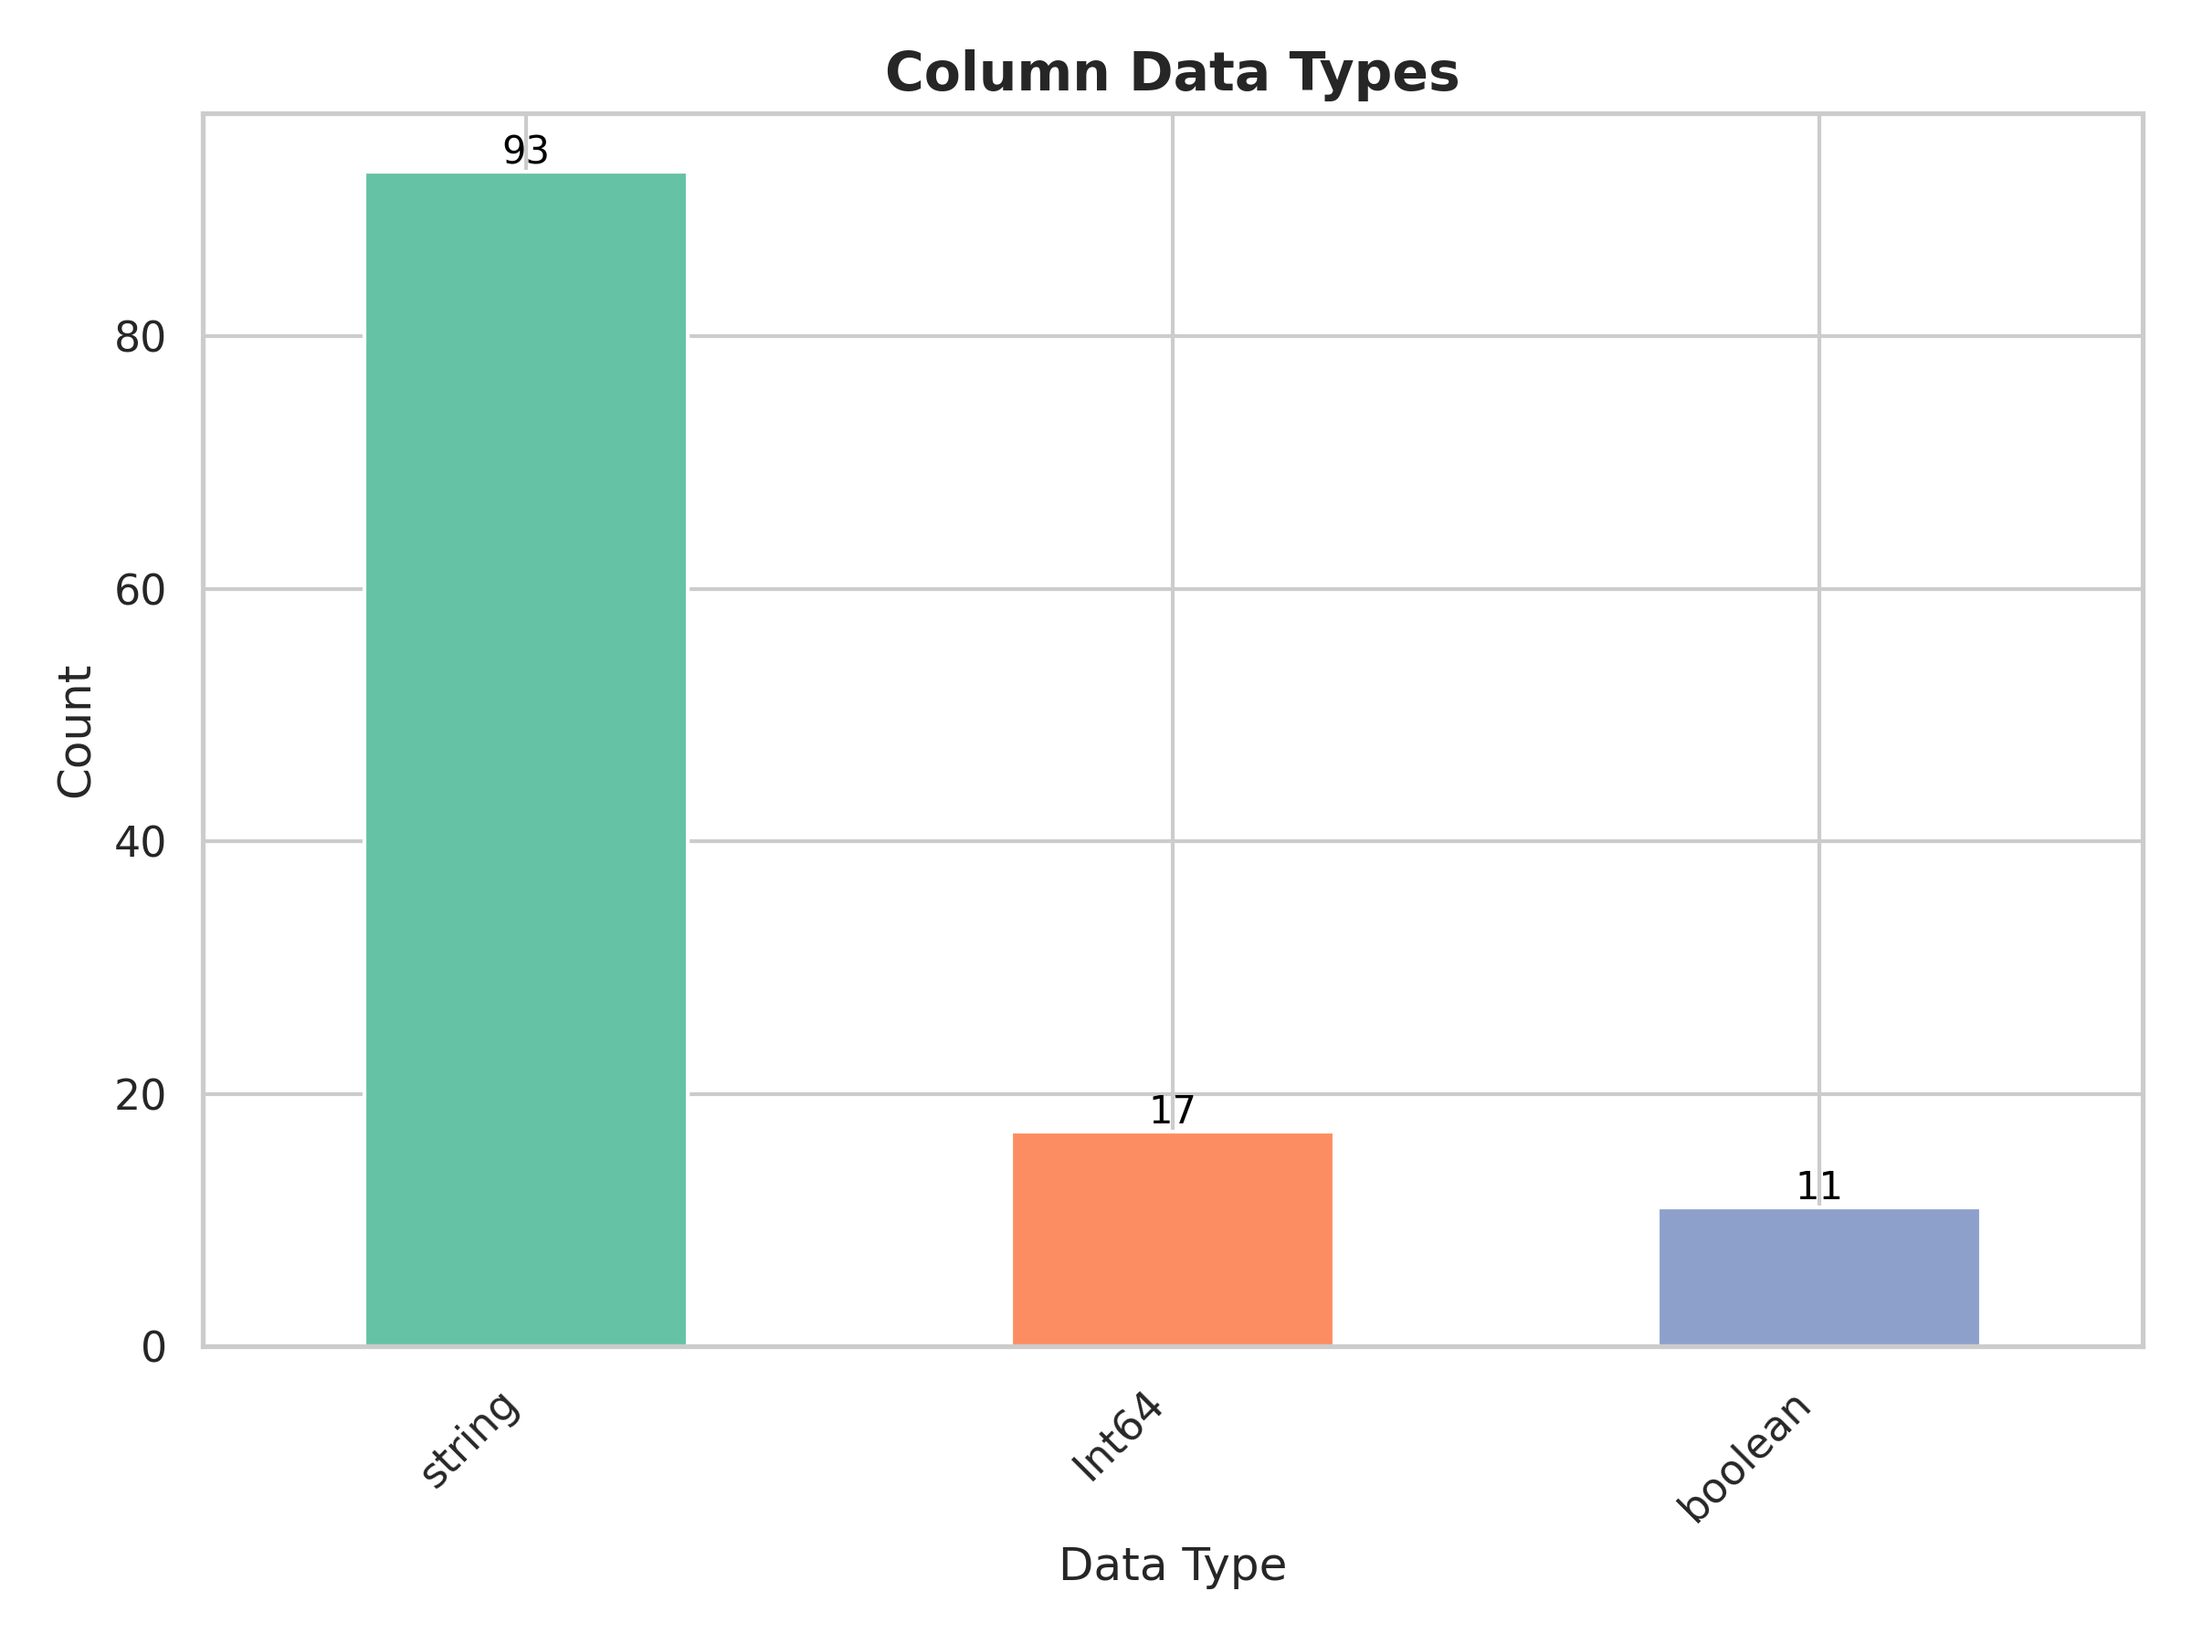
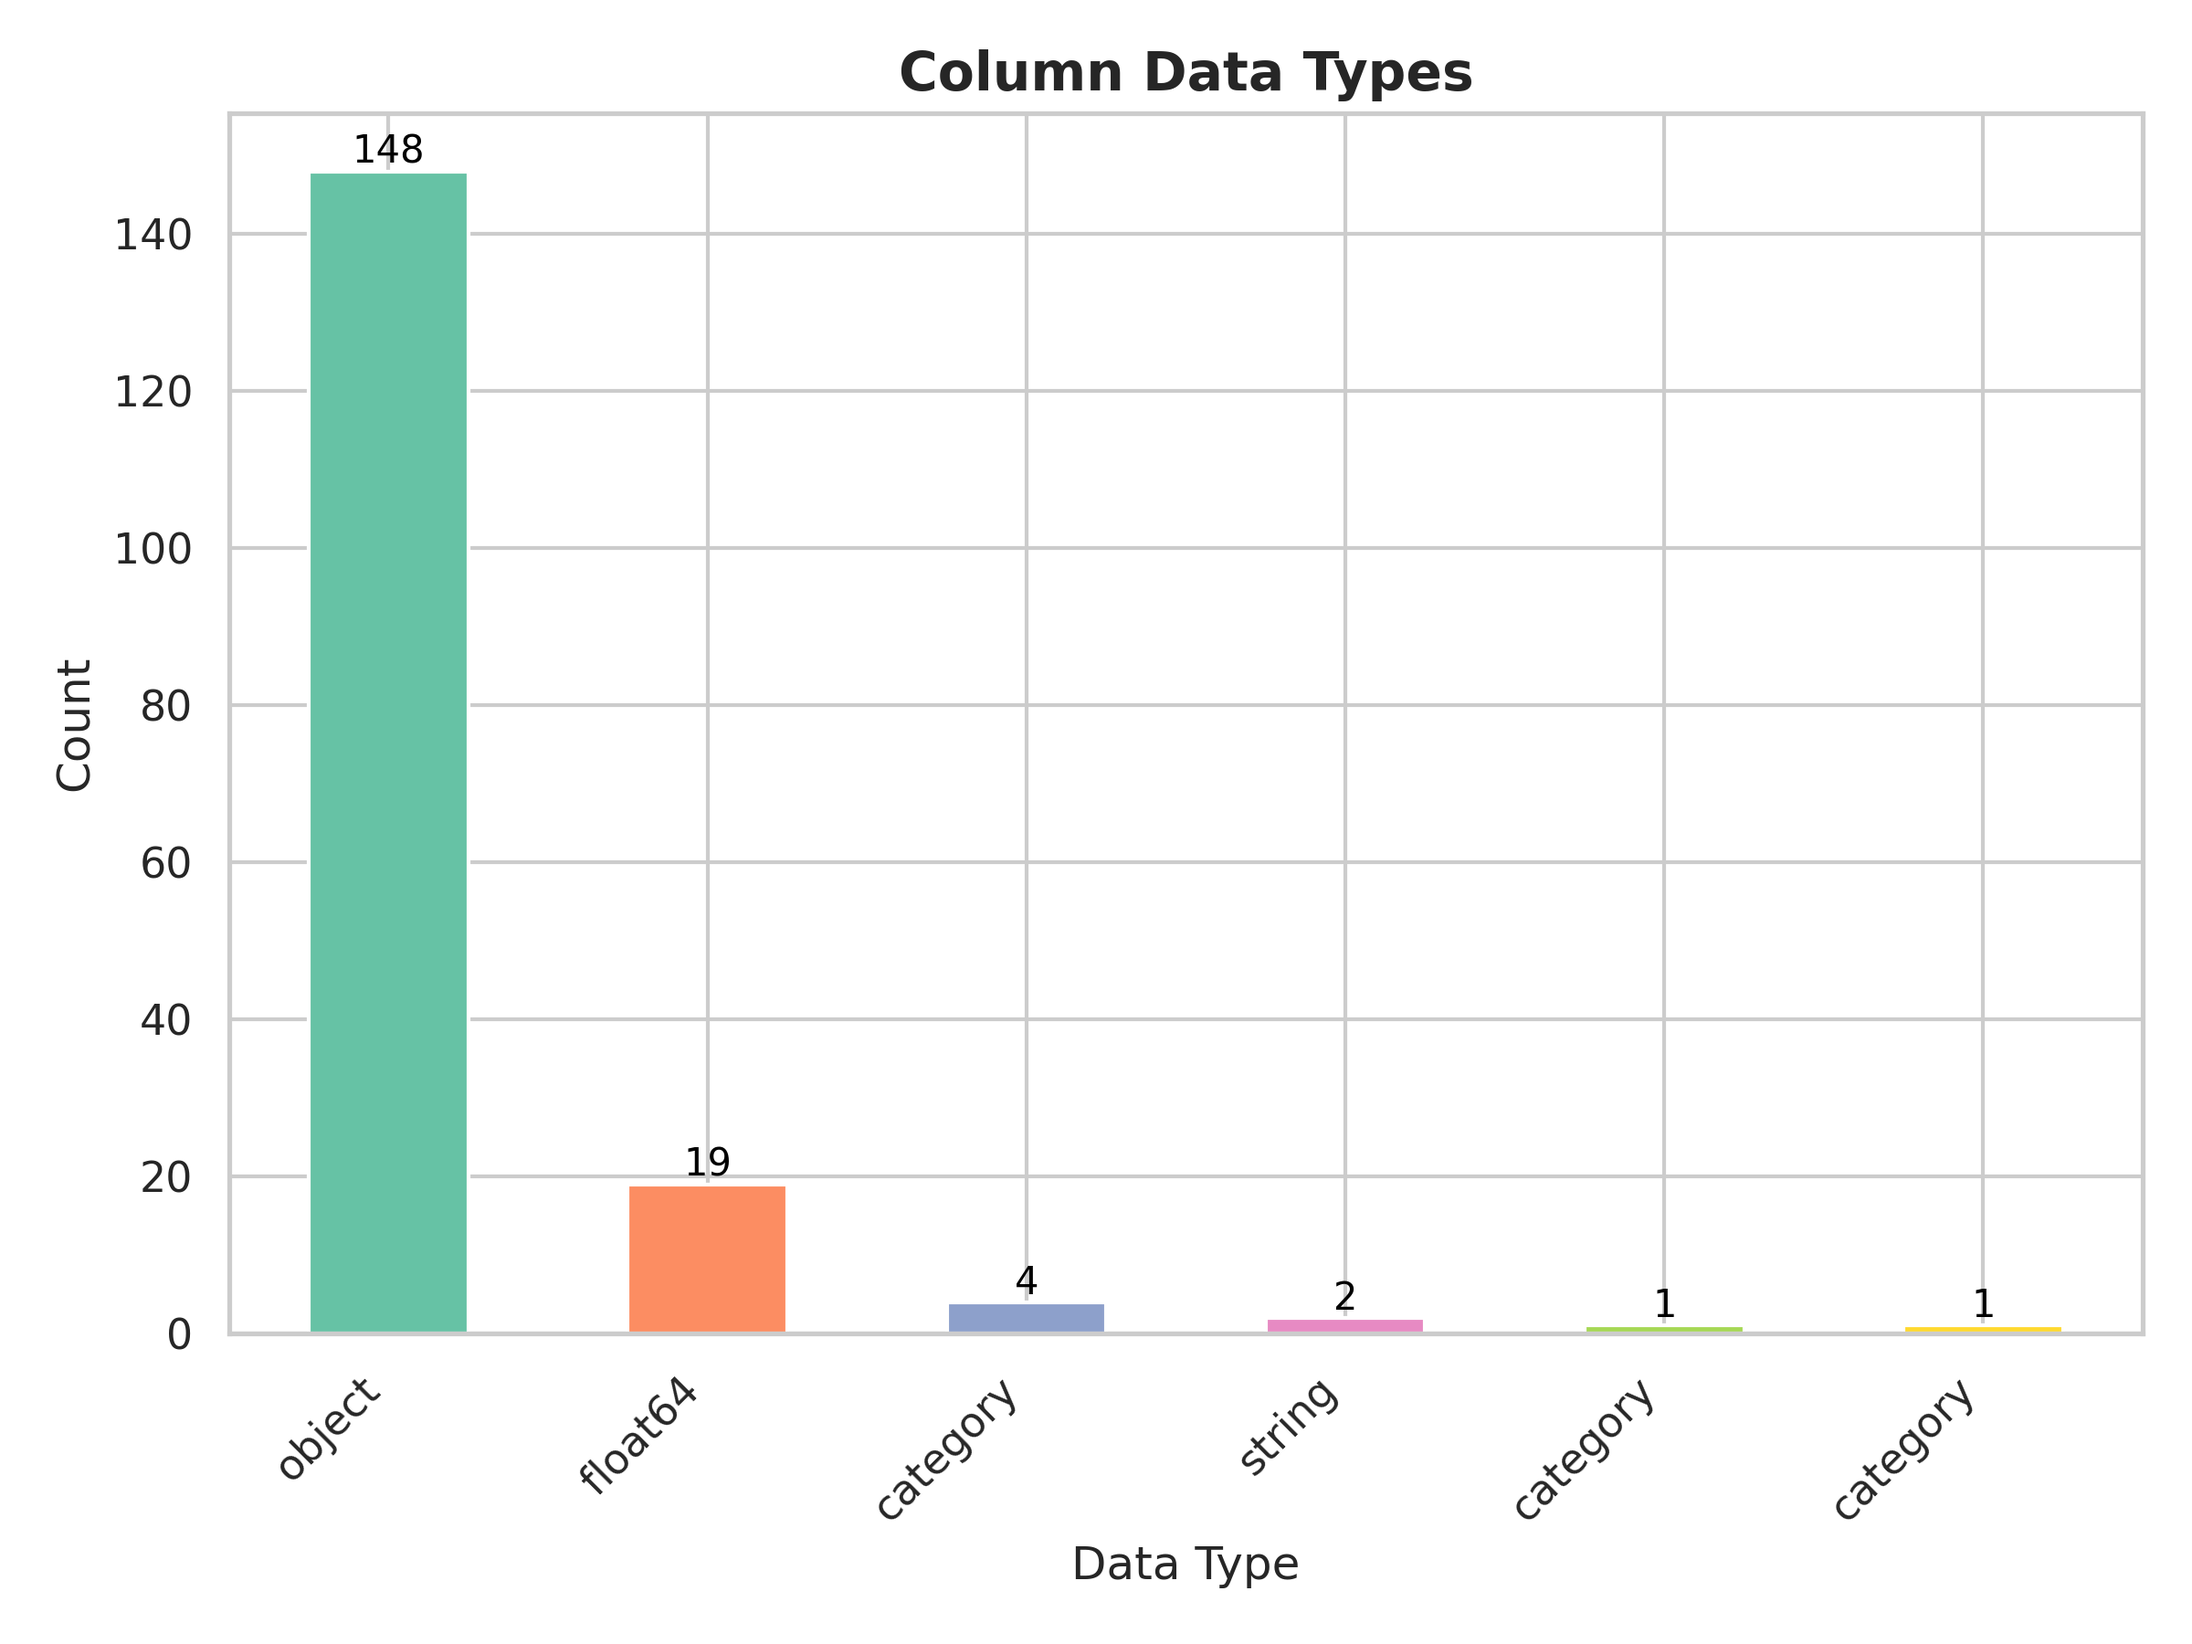
Consolidated Action and Loss DFs

diff --git a/eda/concat.py b/eda/concat.py
@@ -27,28 +27,16 @@ def find_col(df, keyword):
     return main_record
 
 
-# Helper to Attach System of Record as Suffix to Desired Record_Col
+
+
 def attach_system_to_record(df, record_col, system_col):
-    df[system_col] = df[system_col].fillna(UNKNOWN).astype(str)
-    df[record_col] = df[record_col].astype(str)
+    # Use pandas StringDtype / category instead of Python object strings
+    df[system_col] = df[system_col].fillna(UNKNOWN).astype('category')
+    df[record_col] = df[record_col].astype('string')
     
-    df[record_col + f"_{MUTATED}"] = df[record_col] + "_" + df[system_col]
+    df[record_col + f"_{MUTATED}"] = df[record_col] + "_" + df[system_col].astype('string')
+    df = df.drop(columns=[record_col])
     return df
-
-
-# Called by Merge_File_to_main to consilidate sub_df into main_df
-# def merge_df_to_main(main_df, main_record, sub_df, sub_record, to_drop = None):
-#     #Drop Requested Columns
-#     if to_drop is not None:
-#         sub_df = sub_df.drop(columns=to_drop, errors="ignore")
-
-#     main_df[main_record] = main_df[main_record].astype(str)
-#     sub_df[sub_record] = sub_df[sub_record].astype(str)
-
-#     # Inner merge on record number (with system tag)
-#     merged_df = pd.merge(main_df, sub_df, how='left', left_on=main_record, right_on=sub_record, suffixes=('', '_sub'))
-#     check_duplicates(merged_df)
-#     return merged_df
 
 
 def namespace_subcolumns(sub_df, keep_cols,  ns):
@@ -58,6 +46,11 @@ def namespace_subcolumns(sub_df, keep_cols,  ns):
         for c in sub_df.columns
     }
     return sub_df.rename(columns=newcols)
+
+def count_common_columns(df1, df2):
+    common_cols = set(df1.columns).intersection(set(df2.columns))
+    print(f"Common columns: {common_cols}")
+    return len(common_cols)
 
 
 def merge_file_to_main(main_df, main_record, file_path, overwrite_record = None, overwrite_system_field = None, to_drop = None):
@@ -86,9 +79,9 @@ def merge_file_to_main(main_df, main_record, file_path, overwrite_record = None,
     # Build source namespace from filename, e.g. "ACCIDENTS"
     ns = os.path.splitext(os.path.basename(file_path))[0].replace("DIM_CONSOLIDATED_", "")
 
-    # Drop System Field 
+    # Drop System And Old record field 
     drop_cols = set(to_drop or [])
-    drop_cols.update([sub_system_field, sub_record])  # keep mutated join key only
+    drop_cols.update([sub_record])  # keep mutated join key only
     sub_df = sub_df.drop(columns=[c for c in drop_cols if c in sub_df.columns], errors="ignore")
 
     # Rename to avoid duplicates 
@@ -115,7 +108,6 @@ def print_df(target_df, record, name):
         "Columns": cols,
         "Volume_MB": round(memory_mb, 2),
         f"{record}" : target_df[record].notna().sum(),
-        f"{record}_MOD" : target_df[record + f"_{MUTATED}"].notna().sum()
     })
 
 
@@ -134,6 +126,121 @@ def check_duplicates(main_df, remove= False):
         for col in dups.unique():
             positions = [i for i, c in enumerate(main_df.columns) if c == col]
             print(f"  {col}: positions {positions}")
+
+def count_system_aware_matches(
+    df,
+    master_rec="RECORD_NO_MASTER",
+    master_sys="SYSTEM_OF_RECORD",
+    show_conflicts=0,          # set >0 to print conflicting rows
+    return_summary=False       # set True to get a DataFrame summary back
+):
+    total = len(df)
+    summary_rows = []
+
+    for rec_col in df.columns:
+        if not rec_col.startswith("RECORD_NO__"):
+            continue
+
+        ns = rec_col.split("__")[-1]
+        sys_col = f"SYSTEM_OF_RECORD__{ns}"
+        if sys_col not in df.columns:
+            print(f"\n[CHECKING] {rec_col} vs {master_rec} (SKIPPED: missing {sys_col})")
+            continue
+
+        print(f"\n[CHECKING] {rec_col} (+ {sys_col})  vs  {master_rec} (+ {master_sys})")
+
+        rec1, rec2 = df[rec_col], df[master_rec]
+        sys1, sys2 = df[sys_col], df[master_sys]
+
+        # Raw equality allowing NaN==NaN for the "raw" view
+        rec_eq_raw = rec1.fillna("___NA___").eq(rec2.fillna("___NA___"))
+        sys_eq_raw = sys1.fillna("___NA___").eq(sys2.fillna("___NA___"))
+        raw_matches_mask = rec_eq_raw & sys_eq_raw
+        raw_match_count = int(raw_matches_mask.sum())
+
+        # Matches caused by both fields being NaN on both sides
+        nan_match_mask = rec1.isna() & rec2.isna() & sys1.isna() & sys2.isna()
+        nan_match_count = int(nan_match_mask.sum())
+
+        # Both fields present on both sides
+        rec_both_present = (~rec1.isna()) & (~rec2.isna())
+        sys_both_present = (~sys1.isna()) & (~sys2.isna())
+        both_present = rec_both_present & sys_both_present
+
+        # True matches: equal on both fields and both present
+        true_match_mask = both_present & rec1.eq(rec2) & sys1.eq(sys2)
+        true_match_count = int(true_match_mask.sum())
+
+        # Non-matches are complement of raw matches
+        non_match_mask = ~raw_matches_mask
+        non_match_count = int(non_match_mask.sum())
+
+        # Of the non-matches, split into (a) one-sided NaN vs (b) value differences
+        one_sided_nan_mask = non_match_mask & (
+            (rec1.isna() ^ rec2.isna()) | (sys1.isna() ^ sys2.isna())
+        )
+        one_sided_nan_count = int(one_sided_nan_mask.sum())
+
+        # Value differences: both fields present on both sides, but at least one differs
+        value_diff_conflict_mask = both_present & ~(rec1.eq(rec2) & sys1.eq(sys2))
+        value_diff_nonmatch_count = int(value_diff_conflict_mask.sum())
+
+        # Print with percentages
+        def pct(x): return f"{(x/total):.2%}"
+        print(f"  Total rows:                         {total}")
+        print(f"  Raw matches (incl. NaN==NaN):       {raw_match_count} ({pct(raw_match_count)})")
+        print(f"  Matches due to both NaNs:           {nan_match_count} ({pct(nan_match_count)})")
+        print(f"  True matches (rec+sys, non-NaN):    {true_match_count} ({pct(true_match_count)})")
+        print(f"  True non-matches:                   {non_match_count} ({pct(non_match_count)})")
+        print(f"  Non-matches w/ one-sided NaN:       {one_sided_nan_count} ({pct(one_sided_nan_count)})")
+        print(f"  Non-matches due to value diff:      {value_diff_nonmatch_count} ({pct(value_diff_nonmatch_count)})")
+
+        # Optionally show a few true conflict rows
+        if show_conflicts and value_diff_nonmatch_count > 0:
+            cols_to_show = [rec_col, master_rec, sys_col, master_sys]
+            print("\n  Example conflicts (both present, values differ):")
+            print(df.loc[value_diff_conflict_mask, cols_to_show].head(show_conflicts).to_string(index=False))
+
+        # Collect a summary row for optional return
+        summary_rows.append({
+            "file_ns": ns,
+            "record_col": rec_col,
+            "system_col": sys_col,
+            "total": total,
+            "raw_matches": raw_match_count,
+            "raw_matches_pct": raw_match_count / total,
+            "nan_matches": nan_match_count,
+            "nan_matches_pct": nan_match_count / total,
+            "true_matches": true_match_count,
+            "true_matches_pct": true_match_count / total,
+            "true_nonmatches": non_match_count,
+            "true_nonmatches_pct": non_match_count / total,
+            "one_sided_nan_nonmatches": one_sided_nan_count,
+            "one_sided_nan_nonmatches_pct": one_sided_nan_count / total,
+            "value_diff_nonmatches": value_diff_nonmatch_count,
+            "value_diff_nonmatches_pct": value_diff_nonmatch_count / total,
+        })
+
+    if return_summary:
+        import pandas as pd
+        return pd.DataFrame(summary_rows)
+
+
+def merge_on_column(df1, df2, df1_col, df2_col, how='left', suffixes=('', '__R')):
+    # Rename df2’s join column to df2_col so the on=... is clean
+    df2_renamed = df2.rename(columns={df1_col: df2_col})
+
+    # Guard: avoid one->many explosions from duplicate keys on the right
+    if df2_col in df2_renamed.columns:
+        df2_renamed = df2_renamed.drop_duplicates(subset=[df2_col])
+
+    merged = pd.merge(df1, df2_renamed, on=df2_col, how=how, suffixes=suffixes)
+
+    # If the right also had df2_col duplicated into the frame, drop it (left copy is kept)
+    # (safe even if it doesn't exist)
+    merged = merged.drop(columns=[c for c in [df1_col] if c in merged.columns], errors='ignore')
+    return merged
+
 
 
 
@@ -184,14 +291,64 @@ def load_data():
 
     return main_df
 
+def load_data_general(main_file, main_record, files, file_records):
+    main_df = pd.read_csv(main_file, low_memory = False)
+    main_record_mutated = f"{main_record}_{MUTATED}"
+    main_df = attach_system_to_record(main_df, main_record, SYS_RECORD_FIELD)
+
+    for (path, record) in zip(files, file_records):
+        main_df = merge_file_to_main(main_df, main_record_mutated, path, record )
+        print_df(main_df, main_record_mutated, main_file)
+    
+    return main_df
+
+
+
+def load_all_data():
+    loss_files = ["data/DIM_CONSOLIDATED_ACCIDENTS.csv", "data/DIM_CONSOLIDATED_HAZARD_OBSERVATIONS.csv", "data/DIM_CONSOLIDATED_NEAR_MISSES.csv" ]
+    loss_main_record = "RECORD_NO_LOSS_POTENTIAL"
+    loss_records = [loss_main_record, loss_main_record, loss_main_record]
+    loss_df = load_data_general("data/DIM_CONSOLIDATED_LOSS_POTENTIAL.csv", loss_main_record, loss_files, loss_records)
+    #count_system_aware_matches(loss_df, show_conflicts=5)
+
+
+    # Concatonate All Action Plans together 
+    action_files = ["data/DIM_CONSOLIDATED_CAPA_ACTION_PLAN.csv"]
+    action_main_record = "ACTION_NO"
+    action_records = [action_main_record]
+    action_df = load_data_general("data/DIM_CONSOLIDATED_ACTION_PLAN.csv", action_main_record, action_files, action_records)
+    #count_common_columns(loss_df, action_df)
+    
+
+    # Merge Action To Loss Df (give action columns a clear suffix)
+    loss_df = merge_on_column(
+        loss_df, action_df,
+        df1_col="RECORD_NO", df2_col="RECORD_NO_MASTER",
+        how="left", suffixes=('', '__ACTION')
+    )
+
+
+    loss_record_main = find_col(loss_df, "NO")
+
+    #Concactonate Remainder of files On Main 
+    # rem_files = ["data/DIM_CONSOLIDATED_INJURY_ILLNESS.csv", "data/DIM_CONSOLIDATED_LEADING_INDICATORS.csv", "/home/cdm8/COMP449/technipfmc_safety/data/DIM_CONSOLIDATED_PROPERTY_DAMAGE_INCIDENT.csv"]
+    # rem_records = ["MASTER_RECORD_NO", "RECORD_NO", "MASTER_RECORD_NO"]
+
+    return loss_df
+
+
+
+
 
 if __name__== "__main__":
 
-    #This is just a draft
-    load_data()
-
+    load_all_data()
     # Conclusion, we can connect most files through loss potential, but we need a way to consolodite those files that don't have this field
     # Plan of Action: Create three df's and consolidate them
     #   1. df that consolidates all files that have references to loss_potential
     #   2. df that consolidates all action planns (action_id can be tagged in capa file)
     #   3. df that consolidtes master record (this should consolidate all files + the 2 previous dfs)
+
+
+
+    # To Consolidate Record_NO in Files, we must check matches and discrepencies 

diff --git a/eda/main.py b/eda/main.py
@@ -3,6 +3,7 @@ import pandas as pd
 from dataVisualizer import DataVisualizer  
 from dataModifier import DataModifier
 from functools import reduce
+import concat
 
 # General Path Variables 
 BASE_DIR = os.path.dirname(os.path.abspath(__file__))
@@ -109,12 +110,12 @@ def describe_data(df: pd.DataFrame):
 
 if __name__ == "__main__":
     # Load Data and Describe it 
-    combined_df = load_data()
+    combined_df = concat.load_all_data()
     describe_data(combined_df)
 
     # Change Data
     modifier = DataModifier(df= combined_df)
-    modifier.set_dropped_names(["url_link", "url", "record_no"])
+    modifier.set_dropped_names(["url_link", "url"])
     cleaned_df = modifier.clean()
 
     # Generate Visualizer
@@ -127,7 +128,7 @@ if __name__ == "__main__":
     viz.visualizeVariances(0.5)
     viz.visualizeCardinality()
 
-    viz.visualizeTextNgrams(column_name='TITLE__ACCIDENTS', ngram_range=(1, 1))
-    viz.visualizeTextNgrams(column_name='TITLE__ACCIDENTS', ngram_range=(2, 2))
-    viz.visualizeTextNgrams(column_name='TITLE__NEAR_MISSES', ngram_range=(1, 1))
-    viz.visualizeTextNgrams(column_name='TITLE__NEAR_MISSES', ngram_range=(2, 2))
+    # viz.visualizeTextNgrams(column_name='TITLE__ACCIDENTS', ngram_range=(1, 1))
+    # viz.visualizeTextNgrams(column_name='TITLE__ACCIDENTS', ngram_range=(2, 2))
+    # viz.visualizeTextNgrams(column_name='TITLE__NEAR_MISSES', ngram_range=(1, 1))
+    # viz.visualizeTextNgrams(column_name='TITLE__NEAR_MISSES', ngram_range=(2, 2))
